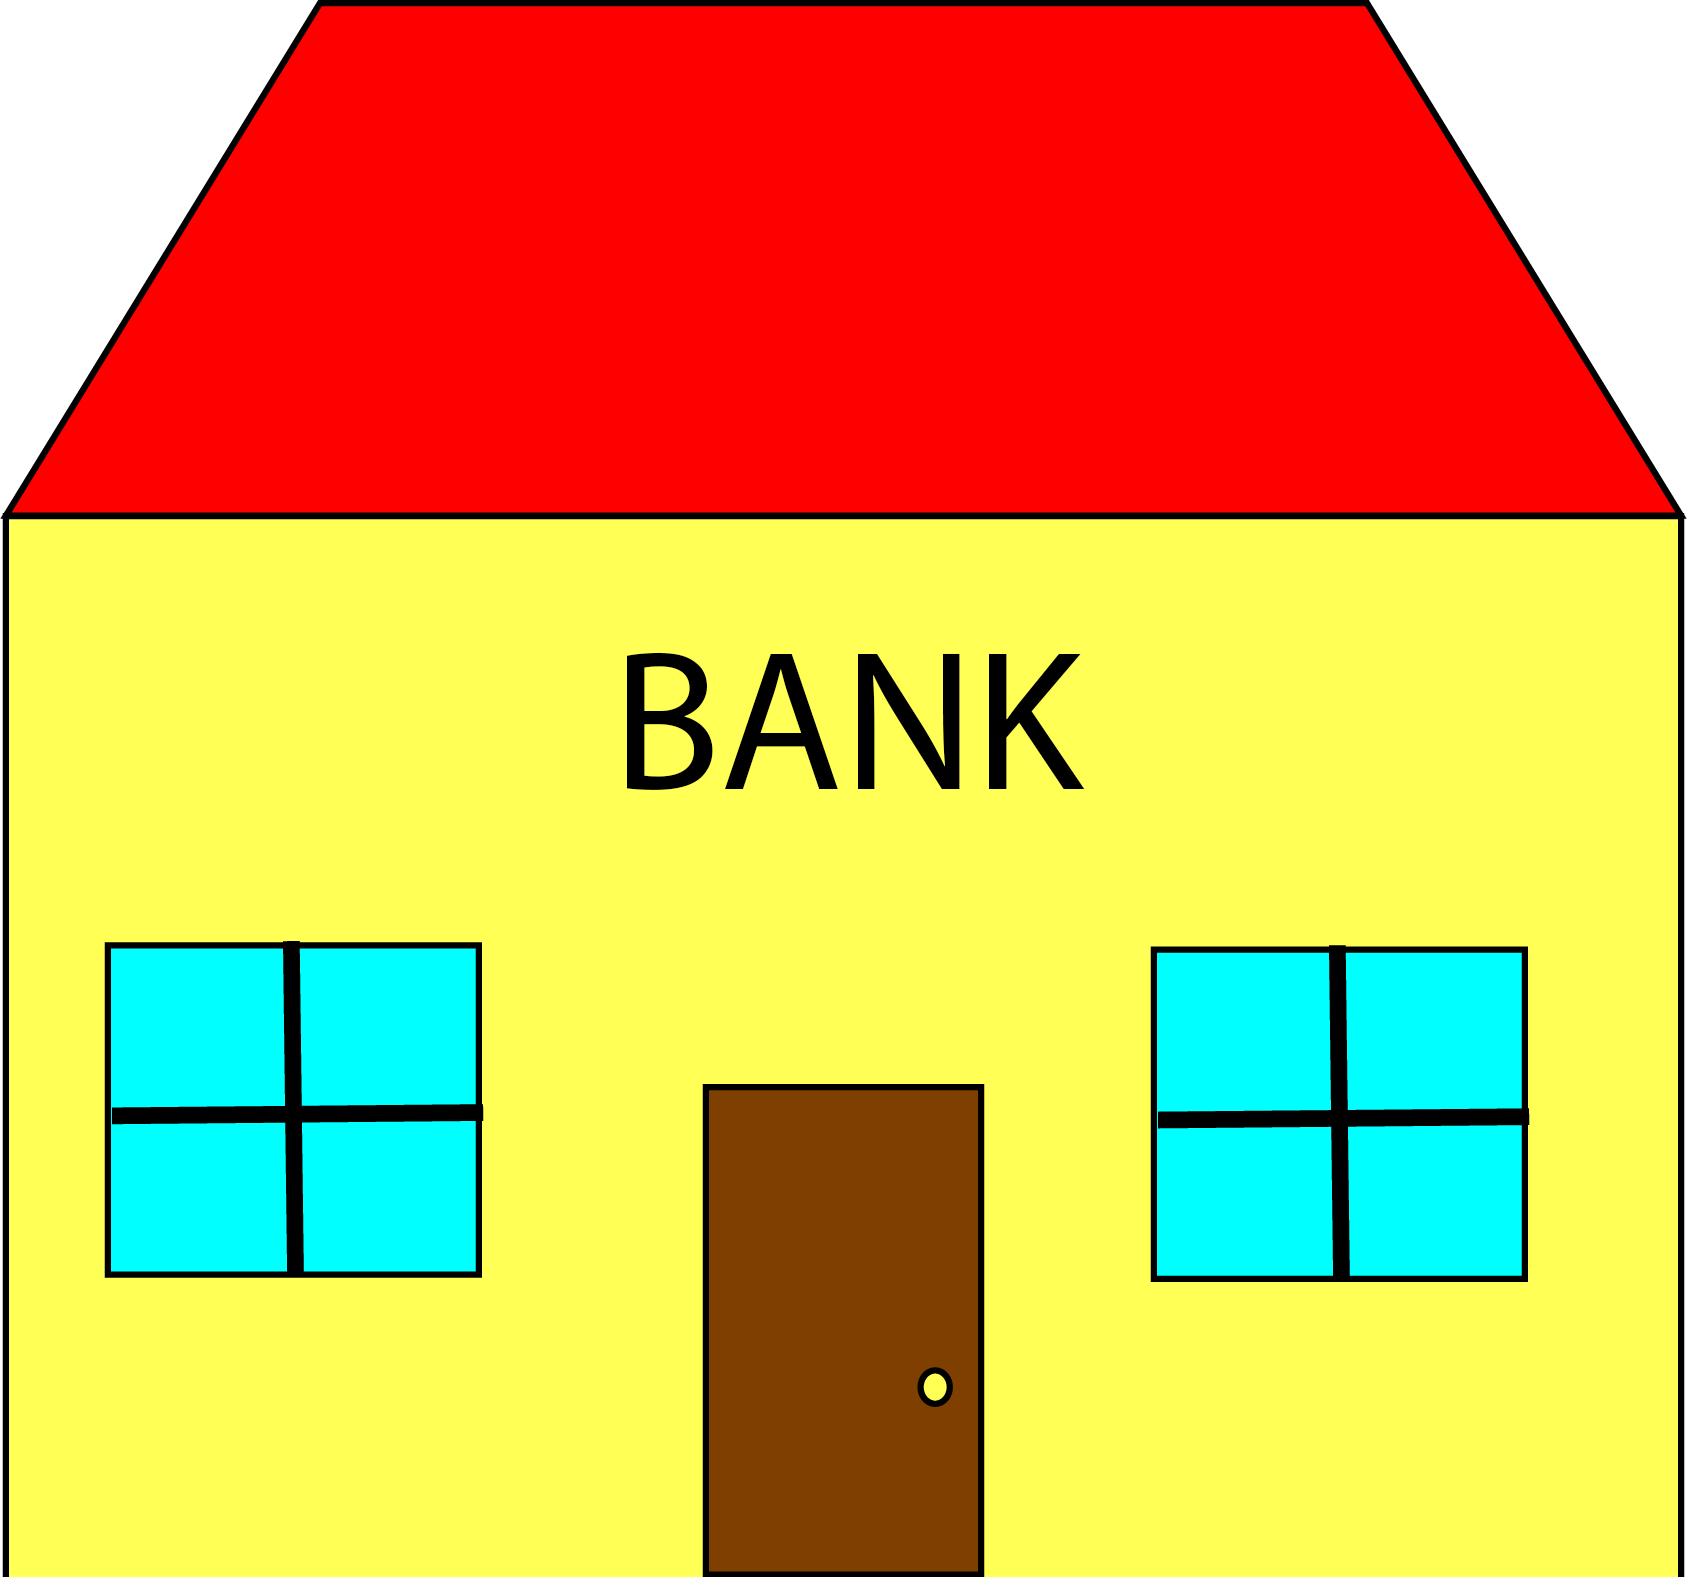
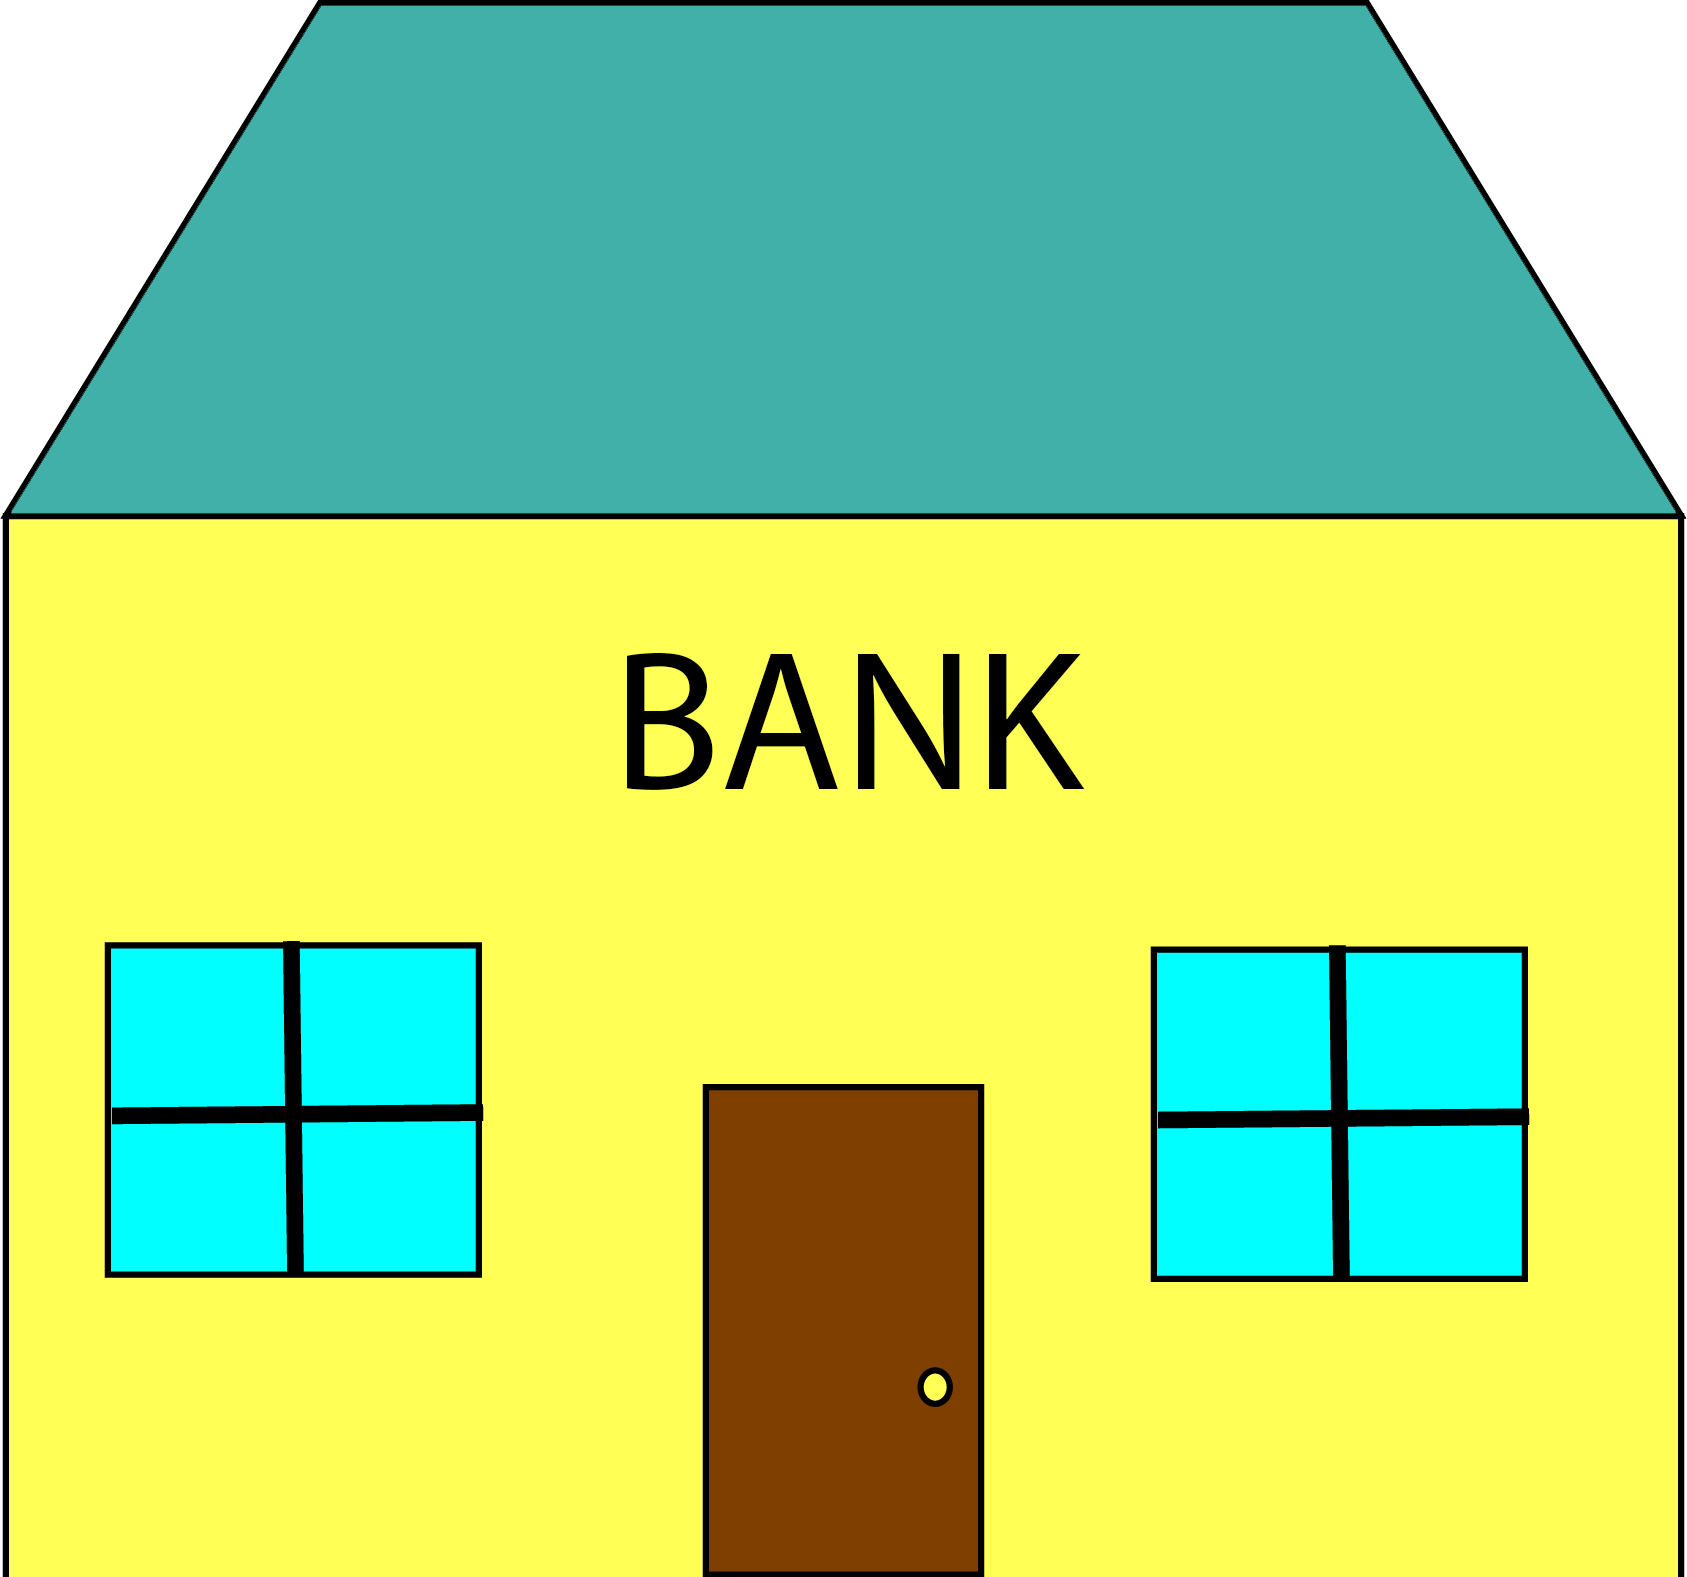
fixed wrong variable name, changed some image colors so don't blend into background

Changed region(s): [[0.0, 0.0, 1.0, 0.3418]]

diff --git a/Game/Functs.js b/Game/Functs.js
@@ -150,7 +150,7 @@ function limInc(inps){
 }
 function newCard(inps){
   let delCred=-10;
-  credLim+=cardLim;
+  credLim+=inps[0];
   if(credScore+delCred>=300&&credScore+delCred<=850){
     credScore+=delCred;
   }
